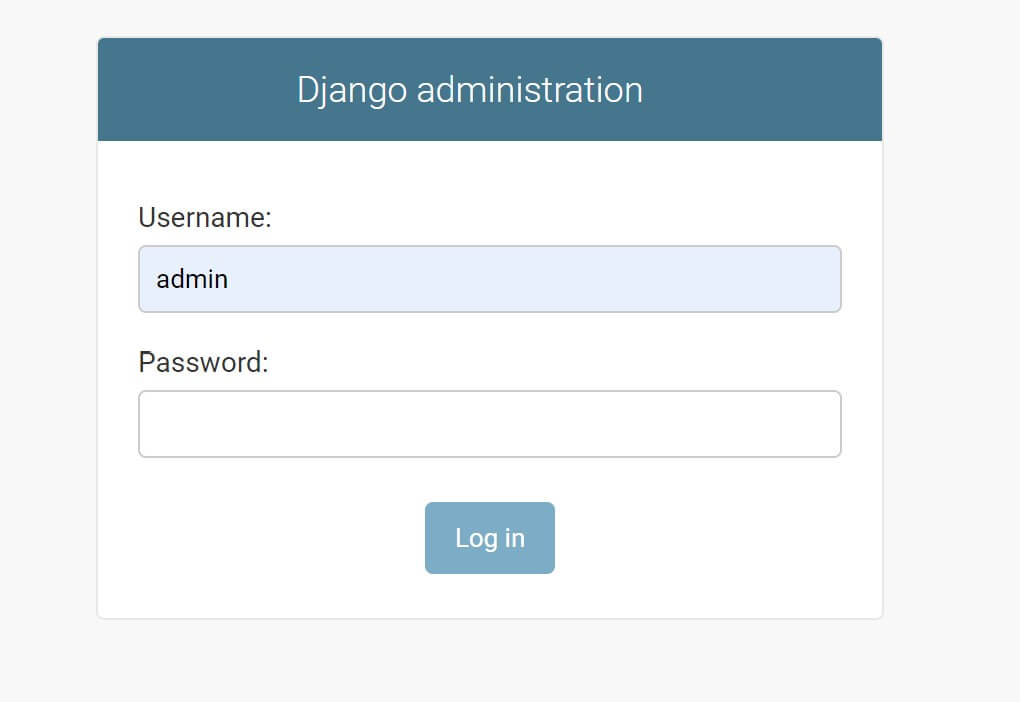
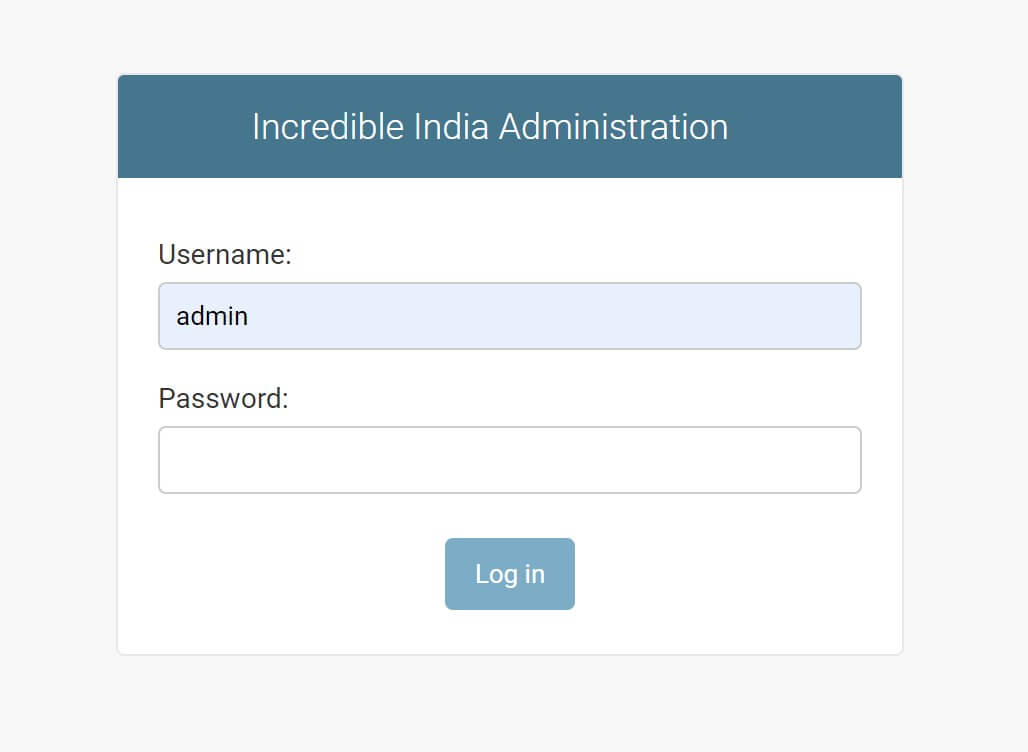
Add admin-panel image in README and set DEBUG False

diff --git a/templates/base.html b/templates/base.html
@@ -74,6 +74,7 @@
                     <input class="form-control me-2" name="q" type="search" placeholder="Search Post" aria-label="Search">
                     <button class="btn btn-outline-success me-3" type="submit">Search</button>
                 </form>
+
             </div>
         </div>
     </nav>

diff --git a/incredible_india/settings.py b/incredible_india/settings.py
@@ -30,9 +30,9 @@ TEMPLATES_DIR = os.path.join(BASE_DIR, "templates")
 SECRET_KEY = os.environ.get("SECRET_KEY")
 
 # SECURITY WARNING: don't run with debug turned on in production!
-DEBUG = True
+DEBUG = False
 
-# X_FRAME_OPTIONS = 'SAMEORIGIN'
+X_FRAME_OPTIONS = 'SAMEORIGIN'
 
 ALLOWED_HOSTS = ["incredible-india.herokuapp.com", "localhost"]
 

diff --git a/README.md b/README.md
@@ -52,7 +52,7 @@ You can view the live site here:- https://incredible-india.herokuapp.com/
       - [Manual Testing](#manual-testing)
   - [Bugs](#bugs)
       - [Fixed Bugs](#fixed-bugs)
-      - [Unfix Bugs](#fixed-bugs)
+      - [Unfix Bugs](#unfix-bugs)
   - [Deployment](#deployment)
       - [Creating the Django project](#creating-the-django-project)
       - [Creating Heroku app](#creating-heroku-app)
@@ -168,12 +168,13 @@ The tasks that I have followed during the development phase were carried out in 
   - blog.html (to view all blog posts)
   - user_page.html (for user's personal collections)
   - post_details.html (for detailed post view)
+  - edit_comment.html (to update the comment)
   - destinations_post.html (to view blog post for a selected destination)
   - add_post.html (to allow user's input for blog posts)
   - delete_post.html (to allow user to delete his post)
   - search.html (to search a blog post)
   - update_post.html (to allow user to edit his post)
-  - author_post_list.html (to allow user to view all post, which he posted so far)
+  - user_post_list.html (to allow user to view all post, which he posted so far)
 - Install Allauth for sign in, sign up and sign out templates with-  pip3 install django-allauth 
 	- Install crispy-forms to add styles to Django account templates with-  pip3 install crispy-bootstrap5
 - Intensive Manual Testing and Validation checks of each page and codes written
@@ -383,6 +384,7 @@ In order to properly interact with the website, the user needs to have an accoun
 ![Sign Up alert](assets/features/user-registration-alert.jpg)
 
 ### Sign In
+
 - User can enter username and password to sign in. User will be guided by validation messages if the username or password is not correct. This was created by modifying Django inbuilt templates.
 
 ![Sign In page](assets/features/user-login-page.jpg)
@@ -392,6 +394,7 @@ In order to properly interact with the website, the user needs to have an accoun
 ![Sign In alert](assets/features/signed-in-alert.jpg)
 
 ### Sign Out
+
 - If the user is signed-in, then only they can see Logout nav-item in navbar. User will be taken to the Sign Out page. This was created by modifying Django inbuilt templates. When the user signs out, they are redirected to homepage.
 
 ![Sign out page](assets/features/logout-page.jpg)
@@ -563,7 +566,7 @@ Testing has taken place continuously throughout the development of the project. 
 * Click create app.
 * Click Reveal Config Vars and add a new record with `DATABASE_URL`.
 * Click Reveal Config Vars and add a new record with `PORT`.
-* Click Reveal Config Vars and add a new record with the `DISABLE_COLLECTSTATIC = 1`(note: this must be removed for final deployment).
+* Click Reveal Config Vars and add a new record with the `DISABLE_COLLECTSTATIC = 1`(note: this must be either removed or set to 0 for final deployment).
 * Next, scroll down to the Buildpack section, click `Add Buildpack` select python and click Save Changes.
 
 ### 3. Set up Environment Variables
